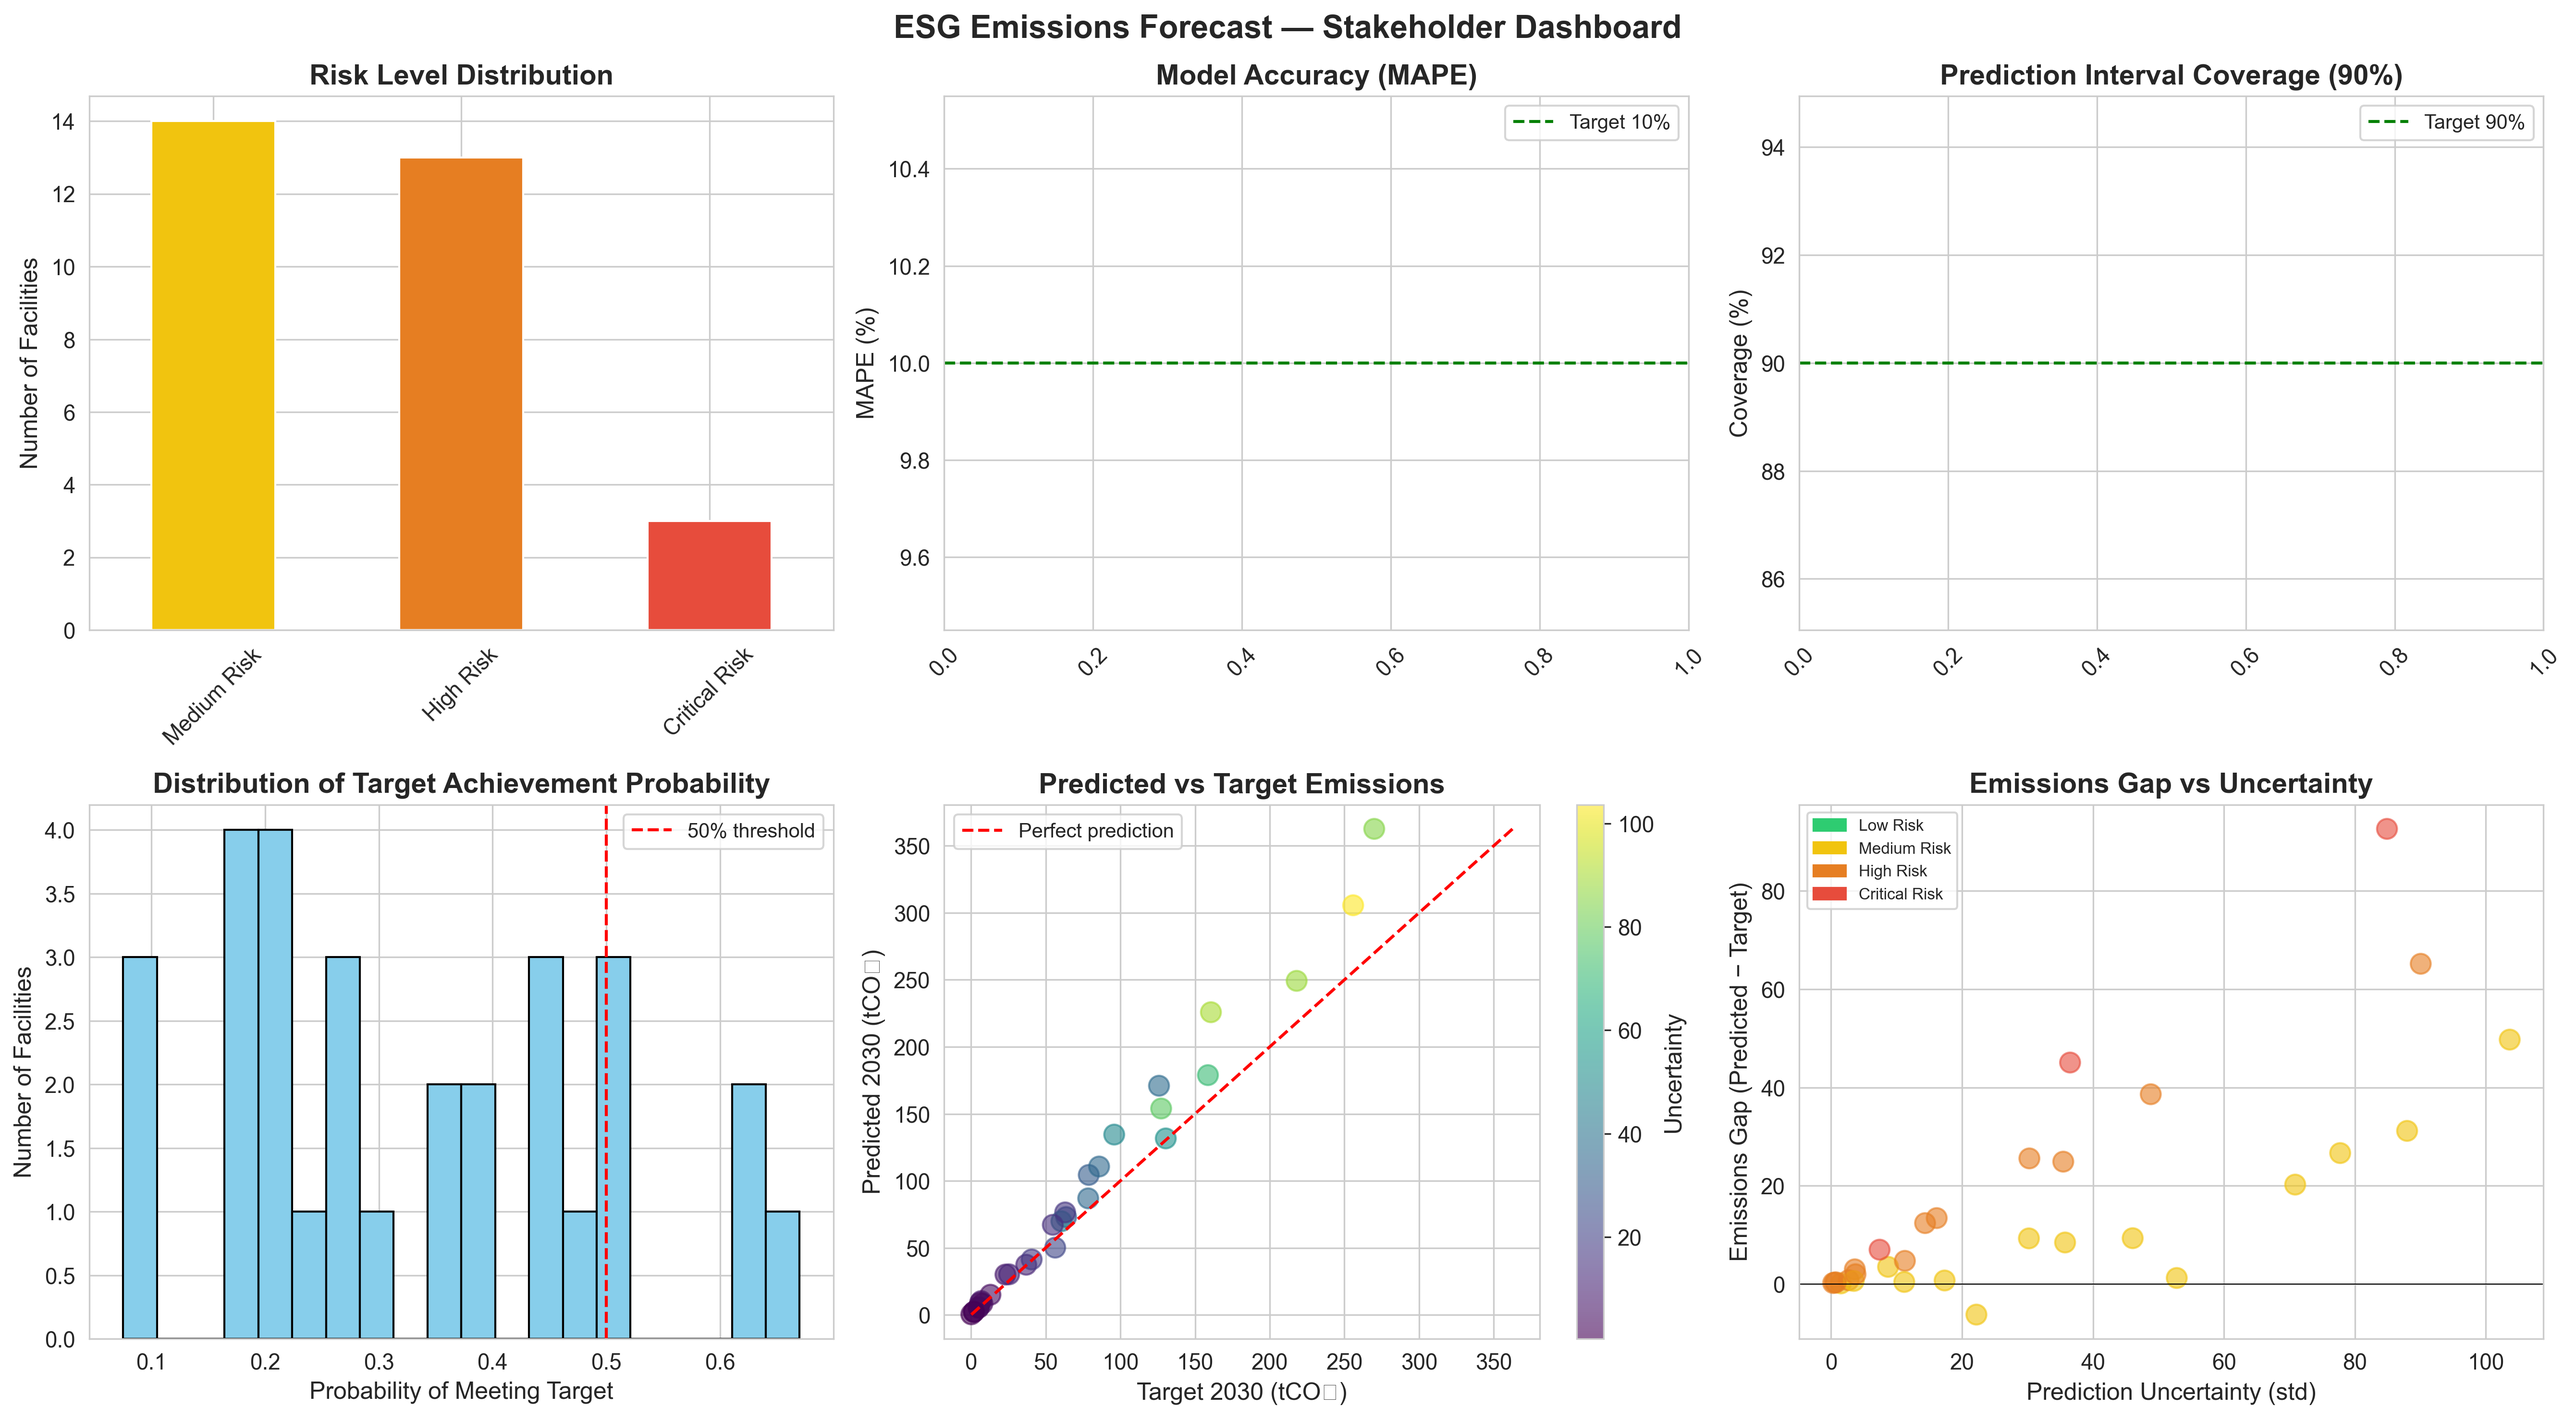
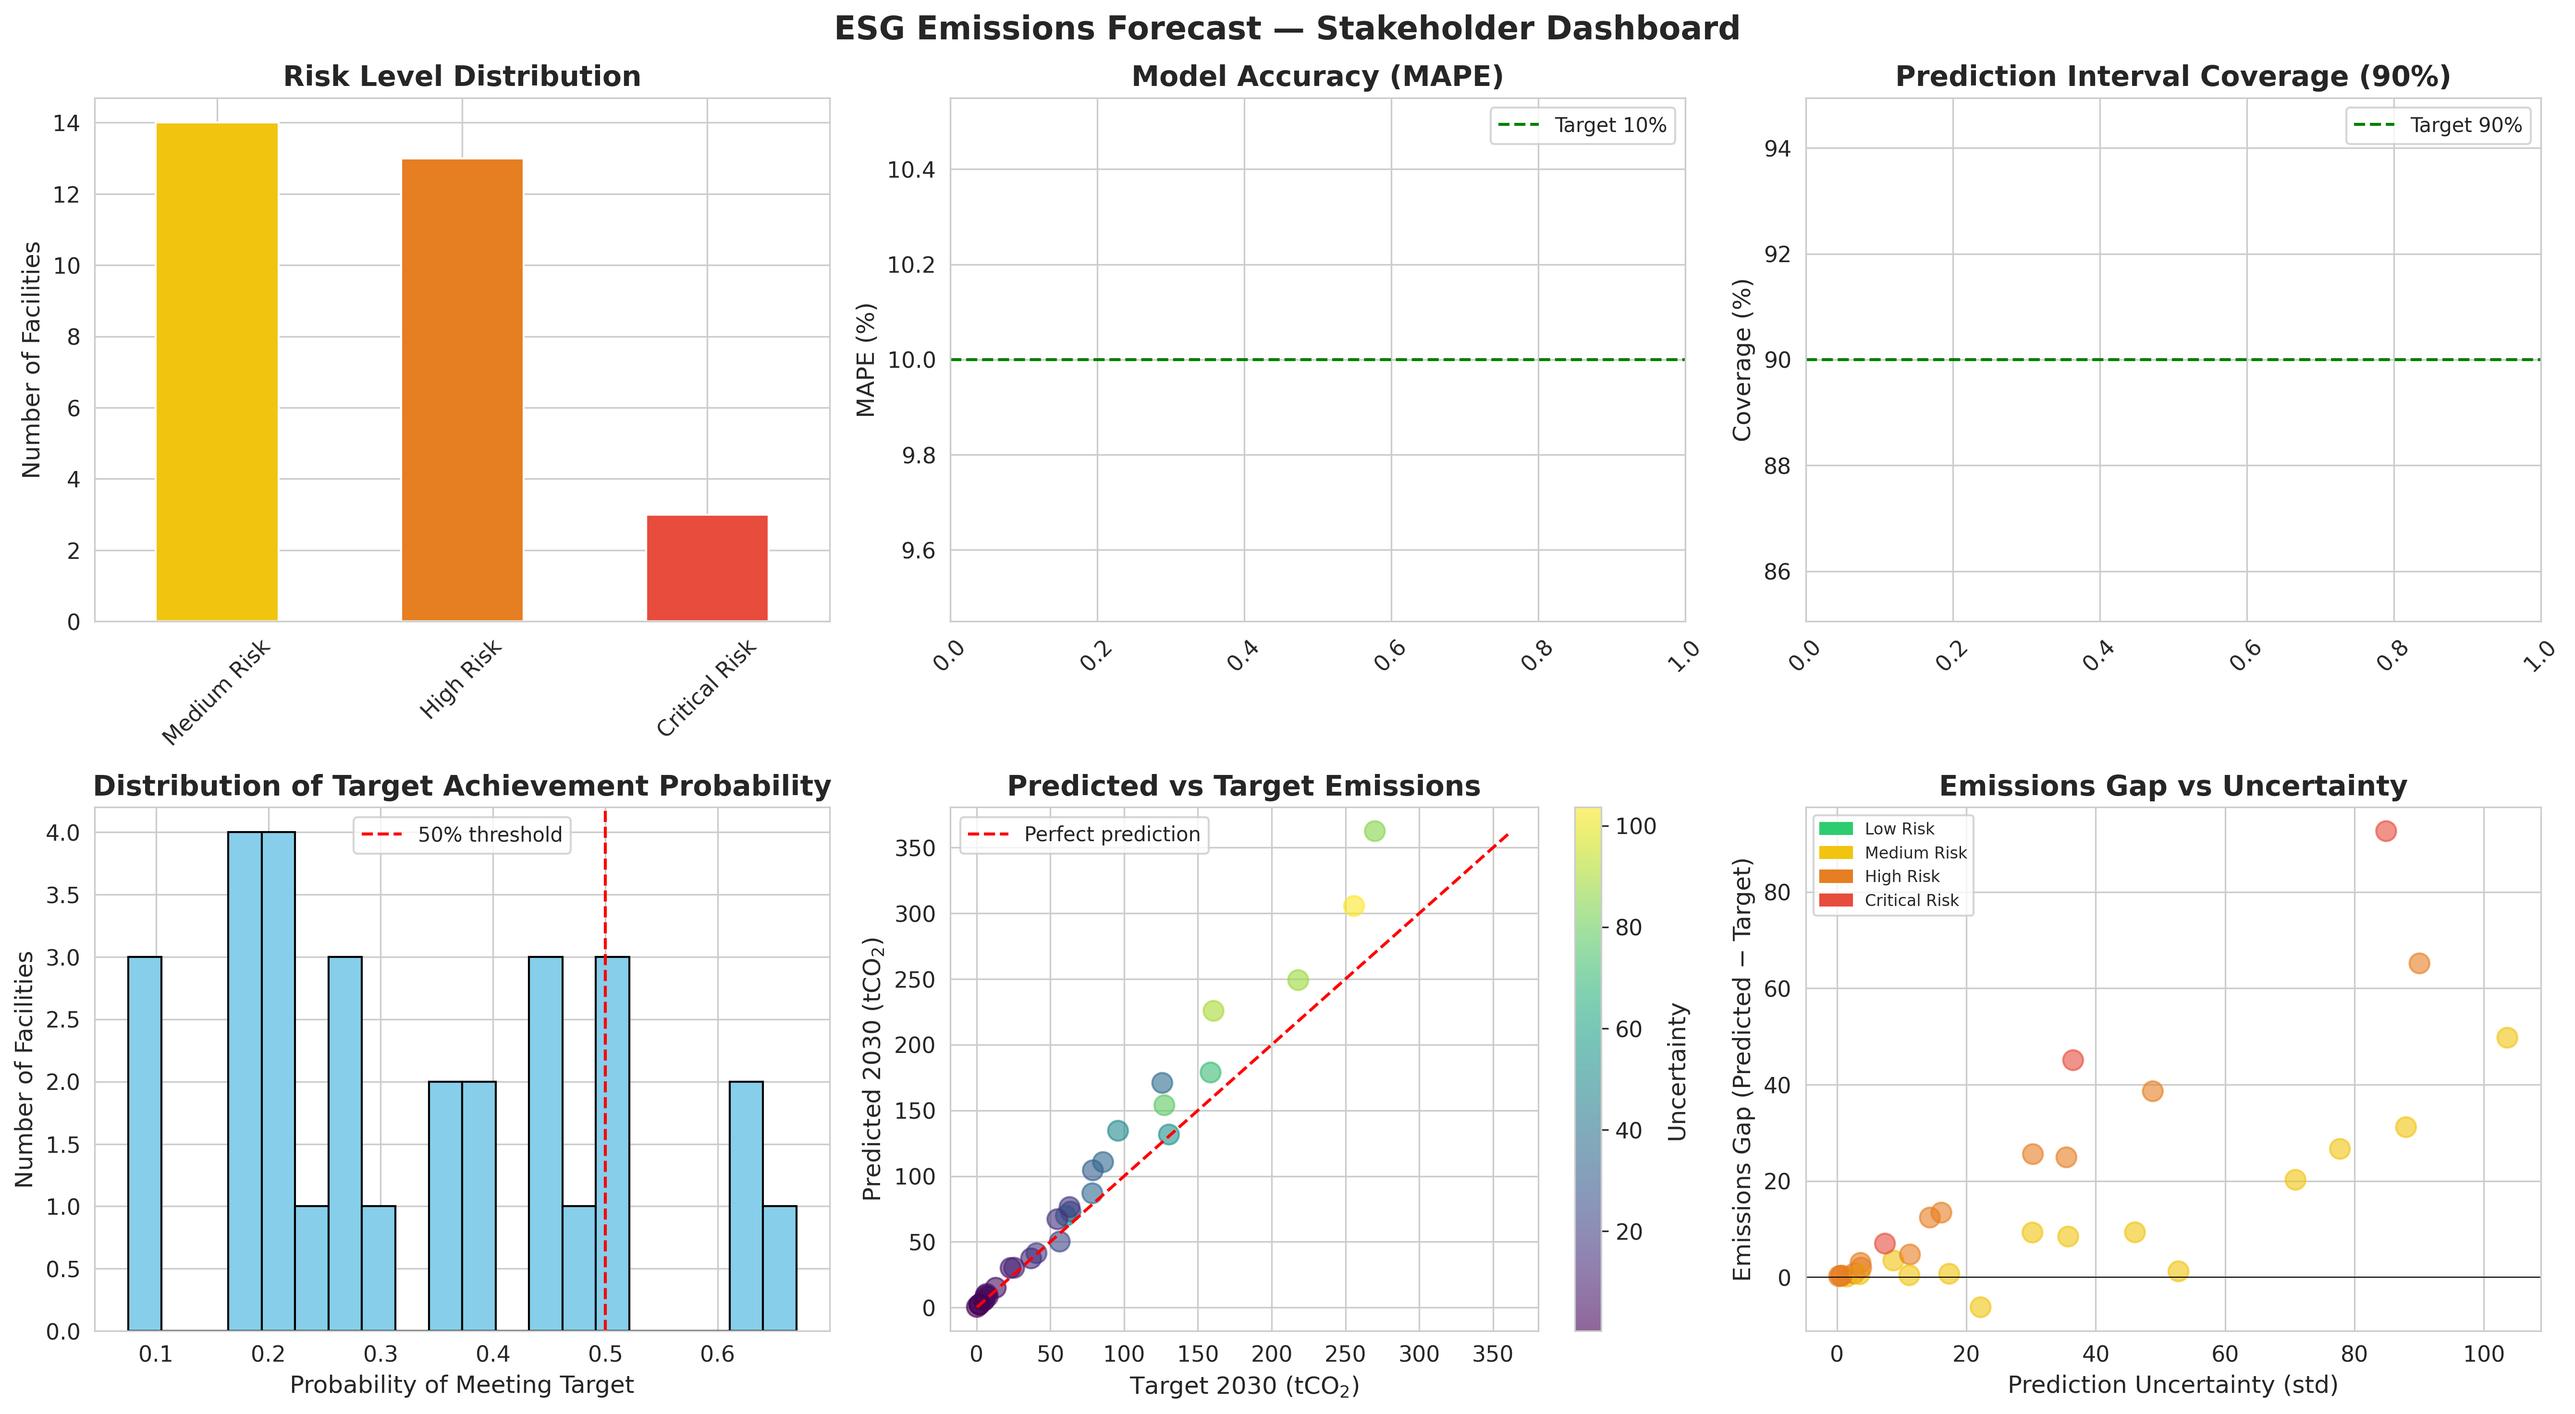
figures: add PDF output, fix font to DejaVu, fix tCO2 subscript rendering
- src/visualization.py: _save() now writes .pdf alongside every .png
- Font changed from Arial to DejaVu Sans (full Unicode support)
- tCO2 subscript replaced with math-mode r'tCO\\$' for correct rendering
- All figures regenerated: 300 dpi PNG + vector PDF (Elsevier submission ready)

diff --git a/src/visualization.py b/src/visualization.py
@@ -55,6 +55,7 @@ MODEL_COLORS = {
 def _apply_style() -> None:
     sns.set_style("whitegrid")
     plt.rcParams.update({
+        "font.family":      "DejaVu Sans",
         "font.size":        11,
         "axes.labelsize":   12,
         "axes.titlesize":   14,
@@ -66,8 +67,13 @@ def _apply_style() -> None:
 
 def _save(fig: plt.Figure, path: str, show: bool) -> None:
     os.makedirs(os.path.dirname(path) or ".", exist_ok=True)
+    # PNG at 300 dpi (Elsevier minimum for raster figures)
     fig.savefig(path, dpi=300, bbox_inches="tight")
     logger.info("Saved: %s", path)
+    # PDF (vector) alongside every PNG — preferred format for Elsevier submission
+    pdf_path = os.path.splitext(path)[0] + ".pdf"
+    fig.savefig(pdf_path, bbox_inches="tight")
+    logger.info("Saved: %s", pdf_path)
     if show:
         plt.show()
     plt.close(fig)
@@ -209,7 +215,7 @@ def plot_uncertainty_decomposition(
     ax.plot(x, decomp_df["Total"], marker="o", color="red", linewidth=2,
             markersize=8, label="Total Uncertainty")
 
-    ax.set_ylabel("Uncertainty (tCO₂)", fontsize=12)
+    ax.set_ylabel(r"Uncertainty (tCO$_2$)", fontsize=12)
     ax.set_xlabel("Facility", fontsize=12)
     ax.set_title("Ensemble Uncertainty Decomposition — Selected Facilities",
                  fontsize=14, fontweight="bold")
@@ -462,8 +468,8 @@ def plot_stakeholder_dashboard(
     max_val = max(valid["Target2030"].max(), valid["PredictionEnsemble"].max())
     ax.plot([min_val, max_val], [min_val, max_val], "r--", label="Perfect prediction")
     ax.set_title("Predicted vs Target Emissions", fontweight="bold")
-    ax.set_xlabel("Target 2030 (tCO₂)")
-    ax.set_ylabel("Predicted 2030 (tCO₂)")
+    ax.set_xlabel(r"Target 2030 (tCO$_2$)")
+    ax.set_ylabel(r"Predicted 2030 (tCO$_2$)")
     plt.colorbar(sc, ax=ax, label="Uncertainty")
     ax.legend()
 
